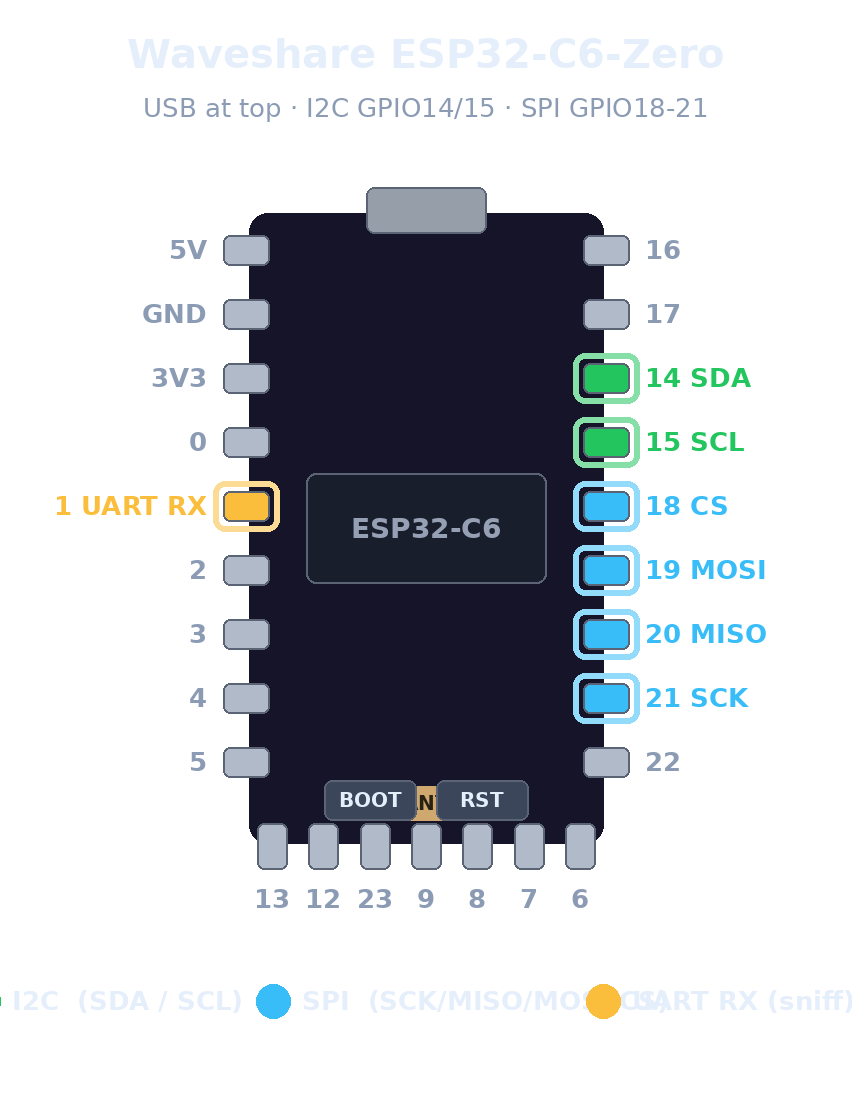
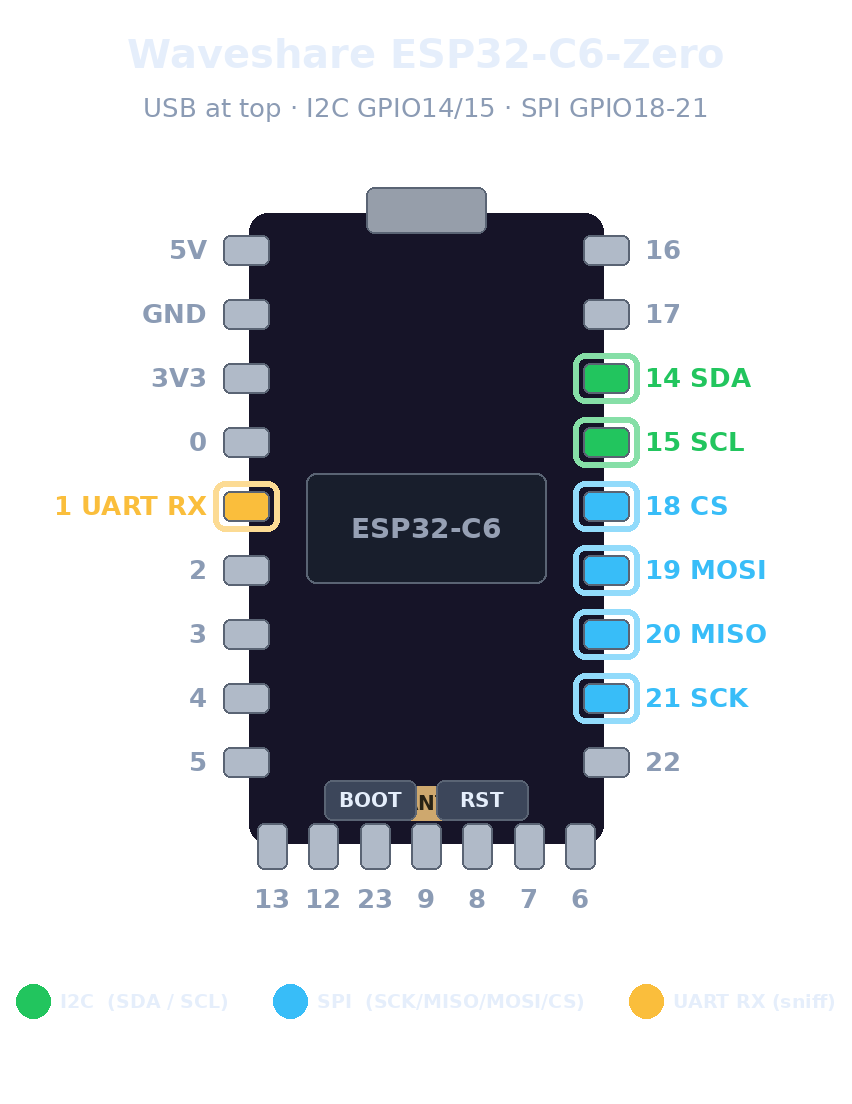
Fix legend overlap on narrow boards; reopen app after update
Legend: the 3-item legend used fixed offsets spanning ~820px — overflowing
the 792px-wide Pico/C3-SuperMini diagrams (the overlap after the UART
entry was added). Now the items are measured and centered as one row that
adapts (tighter gaps, then smaller font) until it fits; the self-check
asserts the legend stays inside the canvas on every board.

App reopen after self-update:
- Installed: the Inno [Run] entry had skipifsilent, so a silent update
  never launched the app — and /RESTARTAPPLICATIONS (Restart Manager
  restart) proved unreliable. Added a deterministic [Run] entry with
  'Check: WizardSilent' that always relaunches the app when silent Setup
  finishes; dropped /RESTARTAPPLICATIONS (no double launch).
- Portable: the swap script now retries Start-Process up to 10x (files may
  still be settling after the folder swap) instead of failing silently.

116 tests passing; all 6 diagrams regenerated + verified.

Changed region(s): [[0.0, 0.8931, 1.0, 0.9239]]

diff --git a/tools/gen_board_diagrams.py b/tools/gen_board_diagrams.py
@@ -367,23 +367,38 @@ def draw_diagram(bd):
         cx = bx0 + step * (i + 0.5)
         draw_pad(label, cx, by1, "bottom")
 
-    # legend
+    # legend: 3 items measured and centered as one row; adapts (smaller gap,
+    # then smaller font) until it fits the canvas — the old fixed offsets
+    # overflowed on narrow boards like the Pico
     ly = H - FOOTER_H + 30
-    d.ellipse([W // 2 - 460, ly, W // 2 - 426, ly + 34], fill=COL_I2C)
-    d.text((W // 2 - 414, ly + 17), "I2C  (SDA / SCL)", font=f_label,
-           fill=COL_TEXT, anchor="lm")
-    d.ellipse([W // 2 - 170, ly, W // 2 - 136, ly + 34], fill=COL_SPI)
-    d.text((W // 2 - 124, ly + 17), "SPI  (SCK/MISO/MOSI/CS)",
-           font=f_label, fill=COL_TEXT, anchor="lm")
-    d.ellipse([W // 2 + 160, ly, W // 2 + 194, ly + 34], fill=COL_UART)
-    d.text((W // 2 + 206, ly + 17), "UART RX (sniff)", font=f_label,
-           fill=COL_TEXT, anchor="lm")
+    items = [("I2C  (SDA / SCL)", COL_I2C),
+             ("SPI  (SCK/MISO/MOSI/CS)", COL_SPI),
+             ("UART RX (sniff)", COL_UART)]
+    f_leg = f_bot
+    gap = 44
+    while True:
+        widths = [34 + 10 + text_wh(d, txt, f_leg)[0] for txt, _ in items]
+        total = sum(widths) + gap * (len(items) - 1)
+        if total <= W - 16 or gap <= 20:
+            break
+        gap -= 8
+    if total > W - 16:                     # still too wide: smaller font
+        f_leg = load_font(16)
+        widths = [34 + 10 + text_wh(d, txt, f_leg)[0] for txt, _ in items]
+        total = sum(widths) + gap * (len(items) - 1)
+    lx = (W - total) // 2
+    for (txt, col), w_it in zip(items, widths):
+        d.ellipse([lx, ly, lx + 34, ly + 34], fill=col)
+        d.text((lx + 44, ly + 17), txt, font=f_leg,
+               fill=COL_TEXT, anchor="lm")
+        lx += w_it + gap
 
     if bd.get("footnote"):
         d.text((W // 2, ly + 64), bd["footnote"], font=f_note,
                fill=COL_DIM, anchor="ma")
 
     geom = {"by1": by1, "legend_y": ly, "has_bottom": bool(bottom),
+            "legend_x0": (W - total) // 2, "legend_x1": (W - total) // 2 + total,
             "board_w": board_w}
     return img, pads, geom
 
@@ -412,6 +427,11 @@ def self_check(bd, img, pads, geom):
             print(f"  !! {bd['key']}: bottom labels (to y={label_bottom}) "
                   f"collide with legend (y={geom['legend_y']})")
             ok = False
+    # legend must fit inside the canvas (past overflow on narrow boards)
+    if geom["legend_x0"] < 2 or geom["legend_x1"] > img.width - 2:
+        print(f"  !! {bd['key']}: legend spans x {geom['legend_x0']}.."
+              f"{geom['legend_x1']} outside canvas 0..{img.width}")
+        ok = False
         # horizontal: widest bottom text must fit inside one pad spacing
         n_bot = len(bd.get("bottom", []))
         if n_bot >= 2:

diff --git a/cd3217_analyzer/updater.py b/cd3217_analyzer/updater.py
@@ -215,7 +215,12 @@ try {
   Rename-Item -Path $appDir -NewName ((Split-Path $appDir -Leaf) + '.old')
   Move-Item -Path $newDir -Destination $appDir
   L "folders swapped; starting app"
-  Start-Process -FilePath (Join-Path $appDir 'CD3217B12_Analyzer.exe')
+  $exe = Join-Path $appDir 'CD3217B12_Analyzer.exe'
+  for ($i = 0; $i -lt 10; $i++) {
+    try { Start-Process -FilePath $exe -ErrorAction Stop; break } catch {
+      L "start attempt $($i+1) failed: $_"; Start-Sleep -Milliseconds 1000
+    }
+  }
   for ($i = 0; $i -lt 20; $i++) {
     Start-Sleep -Milliseconds 500
     try { Remove-Item -Recurse -Force $old -ErrorAction Stop; break } catch {}
@@ -254,10 +259,12 @@ def apply_update(release: dict, progress_cb: Optional[Callable] = None
         setup = os.path.join(tmp, SETUP_ASSET)
         download_file(url, setup, progress_cb)
         # /SILENT: progress only, no questions.
-        # /CLOSEAPPLICATIONS + /RESTARTAPPLICATIONS: Restart Manager closes
-        # this app, Setup replaces it, then restarts it.
-        subprocess.Popen([setup, "/SILENT", "/CLOSEAPPLICATIONS",
-                          "/RESTARTAPPLICATIONS"])
+        # /CLOSEAPPLICATIONS: Restart Manager closes this app so Setup can
+        # replace it. The app is relaunched afterwards by the installer's
+        # [Run] entry (Check: WizardSilent) — deterministic, unlike
+        # /RESTARTAPPLICATIONS.
+        subprocess.Popen([setup, "/SILENT", "/CLOSEAPPLICATIONS"],
+                         creationflags=0x08000000 if os.name == "nt" else 0)
         return {"mode": mode, "action": "setup-launched", "path": setup}
 
     # portable

diff --git a/cd3217_analyzer/__init__.py b/cd3217_analyzer/__init__.py
@@ -1,4 +1,4 @@
 """CD3217B12 (Apple ACE2) I2C Diagnostic Analyzer for MacBook Repair."""
 
-__version__ = "0.6.4"
+__version__ = "0.6.5"
 __author__ = "ALeXXBody"
